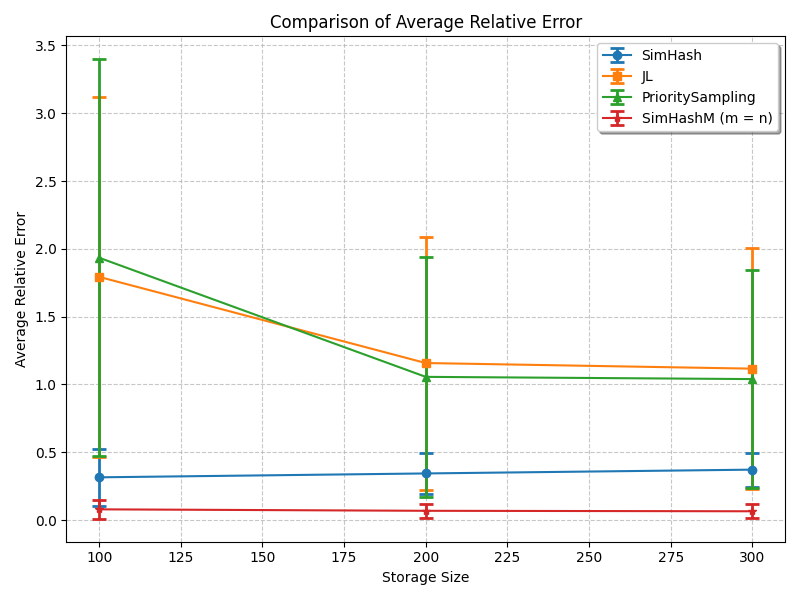
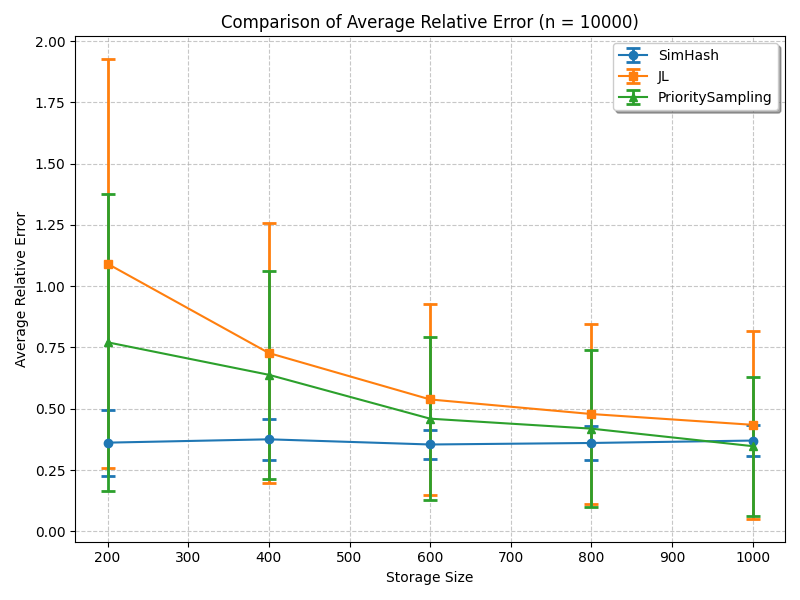
new experiments

diff --git a/experiment.py b/experiment.py
@@ -27,7 +27,7 @@ def args_from_parser():
         help="zero ratio of the vector", type=float)
     parser.add_argument("-sketch_methods", "--sketch_methods",
         help="sketch methods to run", type=str)
-    parser.add_argument("-vector_size", "--vector_size", default=10000,
+    parser.add_argument("-vector_size", "--vector_size", default=3000,
         help="original vector size", type=int)
     parser.add_argument("-sketch_size", "--sketch_size", default=1000,
         help="expected sketch size", type=int)
@@ -82,7 +82,10 @@ if __name__ == "__main__":
             raise ValueError("sketch_methods is not valid")
         
         inner_product = vector_a.dot(vector_b)
+        # print("consine: {}".format(inner_product / (np.linalg.norm(vector_a) * np.linalg.norm(vector_b))))
         inner_product_sketch = sketch_a.inner_product(sketch_b)
+        # print("inner_product: {}".format(inner_product))
+        # print("inner_product_sketch: {}".format(inner_product_sketch))
         error = np.abs(inner_product - inner_product_sketch) / inner_product
         errors.append(error)
         # Print the results
@@ -90,6 +93,7 @@ if __name__ == "__main__":
         # print("Inner product of the vector with itself using the {} sketch: {}".format(sketch_methods, inner_product_sketch))
         # print("Relative error: {}".format(np.abs(inner_product - inner_product_sketch) / inner_product))
     time_end = time.time()
+    it_time = (time_end - time_start) / iterations
     
     if log:
         # log name = sketch method + vector size + sketch size + overlap ratio + outlier ratio + zero ratio
@@ -102,17 +106,17 @@ if __name__ == "__main__":
         #     f.write(str(time_end - time_start) + "\n")
         
         # Writing to csv file 
-        csv_name = "./results/sketch_" + sketch_methods + ".csv"
+        # csv_name = "./results/sketch_" + sketch_methods + ".csv"
         # csv_name = "./results/" + sketch_methods + "/" + str(vector_size) + "_" + str(overlap_ratio) + "_" + str(outlier_ratio) + "_" + str(zeroes_ratio) + ".csv"
-        # csv_name = "./results/storage_" + sketch_methods + ".csv"
+        csv_name = "./results/storage_" + sketch_methods + ".csv"
         
-        with open(csv_name, 'a', newline='') as csvfile:
-            csvwriter = csv.DictWriter(csvfile, fieldnames=['sketch_size', 'mean', 'std', 'time'])
-            csvwriter.writerow({"sketch_size": sketch_size, "mean": np.mean(errors), "std": np.std(errors), "time": time_end - time_start})
-            
         # with open(csv_name, 'a', newline='') as csvfile:
-        #     csvwriter = csv.DictWriter(csvfile, fieldnames=['storage_size', 'mean', 'std', 'time'])
-        #     csvwriter.writerow({"storage_size": sketch_size, "mean": np.mean(errors), "std": np.std(errors), "time": time_end - time_start})
+        #     csvwriter = csv.DictWriter(csvfile, fieldnames=['sketch_size', 'mean', 'std', 'time'])
+        #     csvwriter.writerow({"sketch_size": sketch_size, "mean": np.mean(errors), "std": np.std(errors), "time": it_time})
+            
+        with open(csv_name, 'a', newline='') as csvfile:
+            csvwriter = csv.DictWriter(csvfile, fieldnames=['storage_size', 'mean', 'std', 'time'])
+            csvwriter.writerow({"storage_size": storage_size, "mean": np.mean(errors), "std": np.std(errors), "time": it_time})
         
         # with open(csv_name, 'w', newline='') as csvfile:
         #     fieldnames = ['sketch_size', 'mean', 'std', 'time']
@@ -122,5 +126,5 @@ if __name__ == "__main__":
     
     print("Average relative error: {}".format(np.mean(errors)))
     print("Standard deviation of relative error: {}".format(np.std(errors)))
-    print("Time elapsed: {}".format(time_end - time_start))
+    print("Time elapsed: {}".format(it_time))
     

diff --git a/storage_size_plots.py b/storage_size_plots.py
@@ -1,10 +1,10 @@
 import pandas as pd
 import matplotlib.pyplot as plt
 
-def plot_average_error(sh, jl, ps, shm):
+def plot_average_error(sh, jl, ps):
 
     plt.figure(figsize=(8,6))
-    plt.title('Comparison of Average Relative Error')
+    plt.title('Comparison of Average Relative Error (n = 10000)')
     plt.xlabel('Storage Size')
     plt.ylabel('Average Relative Error')
     plt.grid(True, linestyle='--', alpha=0.7)
@@ -14,16 +14,16 @@ def plot_average_error(sh, jl, ps, shm):
     plt.errorbar(sh.iloc[:,0], sh.iloc[:,1], yerr=sh.iloc[:,2], label='SimHash', linestyle='-', marker='o', **errorbar_opts)
     plt.errorbar(jl.iloc[:,0], jl.iloc[:,1], yerr=jl.iloc[:,2], label='JL', linestyle='-', marker='s', **errorbar_opts)
     plt.errorbar(ps.iloc[:,0], ps.iloc[:,1], yerr=ps.iloc[:,2], label='PrioritySampling', linestyle='-', marker='^', **errorbar_opts)
-    plt.errorbar(shm.iloc[:,0], shm.iloc[:,1], yerr=shm.iloc[:,2], label='SimHashM (m = n)', linestyle='-', marker='*', **errorbar_opts)
+    # plt.errorbar(shm.iloc[:,0], shm.iloc[:,1], yerr=shm.iloc[:,2], label='SimHashM (m = n)', linestyle='-', marker='*', **errorbar_opts)
 
     plt.legend(loc='upper right', frameon=True, shadow=True)
     plt.tight_layout()
 
     plt.savefig('./results/storage_average_error.png')
     
-def plot_time(sh, jl, ps, shm):
+def plot_time(sh, jl, ps):
     plt.figure(figsize=(8,6))
-    plt.title('Comparison of Time (s)')
+    plt.title('Comparison of Average Time(s) (n = 10000)')
     plt.xlabel('Storage Size')
     plt.ylabel('Time (s)')
     plt.grid(True, linestyle='--', alpha=0.7)
@@ -31,7 +31,7 @@ def plot_time(sh, jl, ps, shm):
     plt.plot(sh.iloc[:,0], sh.iloc[:,3], label='SimHash', linestyle='-', marker='o')
     plt.plot(jl.iloc[:,0], jl.iloc[:,3], label='JL', linestyle='-', marker='s')
     plt.plot(ps.iloc[:,0], ps.iloc[:,3], label='PrioritySampling', linestyle='-', marker='^')
-    plt.plot(shm.iloc[:,0], shm.iloc[:,3], label='SimHashM (m = n)', linestyle='-', marker='*')
+    # plt.plot(shm.iloc[:,0], shm.iloc[:,3], label='SimHashM (m = n)', linestyle='-', marker='*')
 
     plt.legend(loc='upper right', frameon=True, shadow=True)
     plt.tight_layout()
@@ -42,7 +42,7 @@ def plot_time(sh, jl, ps, shm):
 sh = pd.read_csv('./results/storage_SimHash.csv')
 jl = pd.read_csv('./results/storage_JL.csv')
 ps = pd.read_csv('./results/storage_PrioritySampling.csv')
-shm = pd.read_csv('./results/storage_SimHashM.csv')
+# shm = pd.read_csv('./results/storage_SimHashM.csv')
 
-plot_average_error(sh, jl, ps, shm)
-plot_time(sh, jl, ps, shm)
+plot_average_error(sh, jl, ps)
+plot_time(sh, jl, ps)

diff --git a/simHash.py b/simHash.py
@@ -1,6 +1,7 @@
 import numpy as np
 import scipy.sparse as sparse
 import math
+import time
 
 #
 # SimHash Sketch
@@ -21,16 +22,24 @@ class SHSketch():
         self.norm: float = norm
 
     def inner_product(self, other: 'SHSketch') -> float:
+        
+        # # norm_Sa = np.sqrt(len(self.sk_values))
+        # # norm_Sb = np.sqrt(len(other.sk_values))
+        # # print(f"cosine: {dot_product / (norm_Sa * norm_Sb)}")
+        
         dot_product = np.dot(self.sk_values, other.sk_values)
         norm_Sa = np.linalg.norm(self.sk_values)
         norm_Sb = np.linalg.norm(other.sk_values)
+        # print("cosine_sketch: {}".format(dot_product / (norm_Sa * norm_Sb)))
+        return self.norm * other.norm * dot_product / (norm_Sa * norm_Sb)
         
-        # norm_Sa = np.sqrt(len(self.sk_values))
-        # norm_Sb = np.sqrt(len(other.sk_values))
-        # print(f"cosine: {dot_product / (norm_Sa * norm_Sb)}")
+        # print(f"self.sk_values: {self.sk_values}")
+        # print(f"number of zeroes: {len(self.sk_values) - np.count_nonzero(self.sk_values)}")
         
-        return dot_product / (norm_Sa * norm_Sb) * self.norm * other.norm
-        # return math.cos(math.pi / (2 * len(self.sk_values))) * np.linalg.norm(self.sk_values - other.sk_values, ord=1)
+        # difference = np.count_nonzero(self.sk_values - other.sk_values)
+        # print(f"difference: {difference}")
+        # print(f"cossim: {math.cos(difference / len(self.sk_values))}")
+        # return math.cos(difference / len(self.sk_values)) * self.norm * other.norm
 
 class SimHash():
     def __init__(self, sketch_size, vector_size) -> None:
@@ -43,6 +52,7 @@ class SimHash():
 
         sk_values = np.sign(self.phi.dot(vector))
         
+        # print(f"np.linalg.norm(vector) = {np.linalg.norm(vector)}")
         return SHSketch(sk_values, np.linalg.norm(vector))
 
 if __name__ == "__main__":
